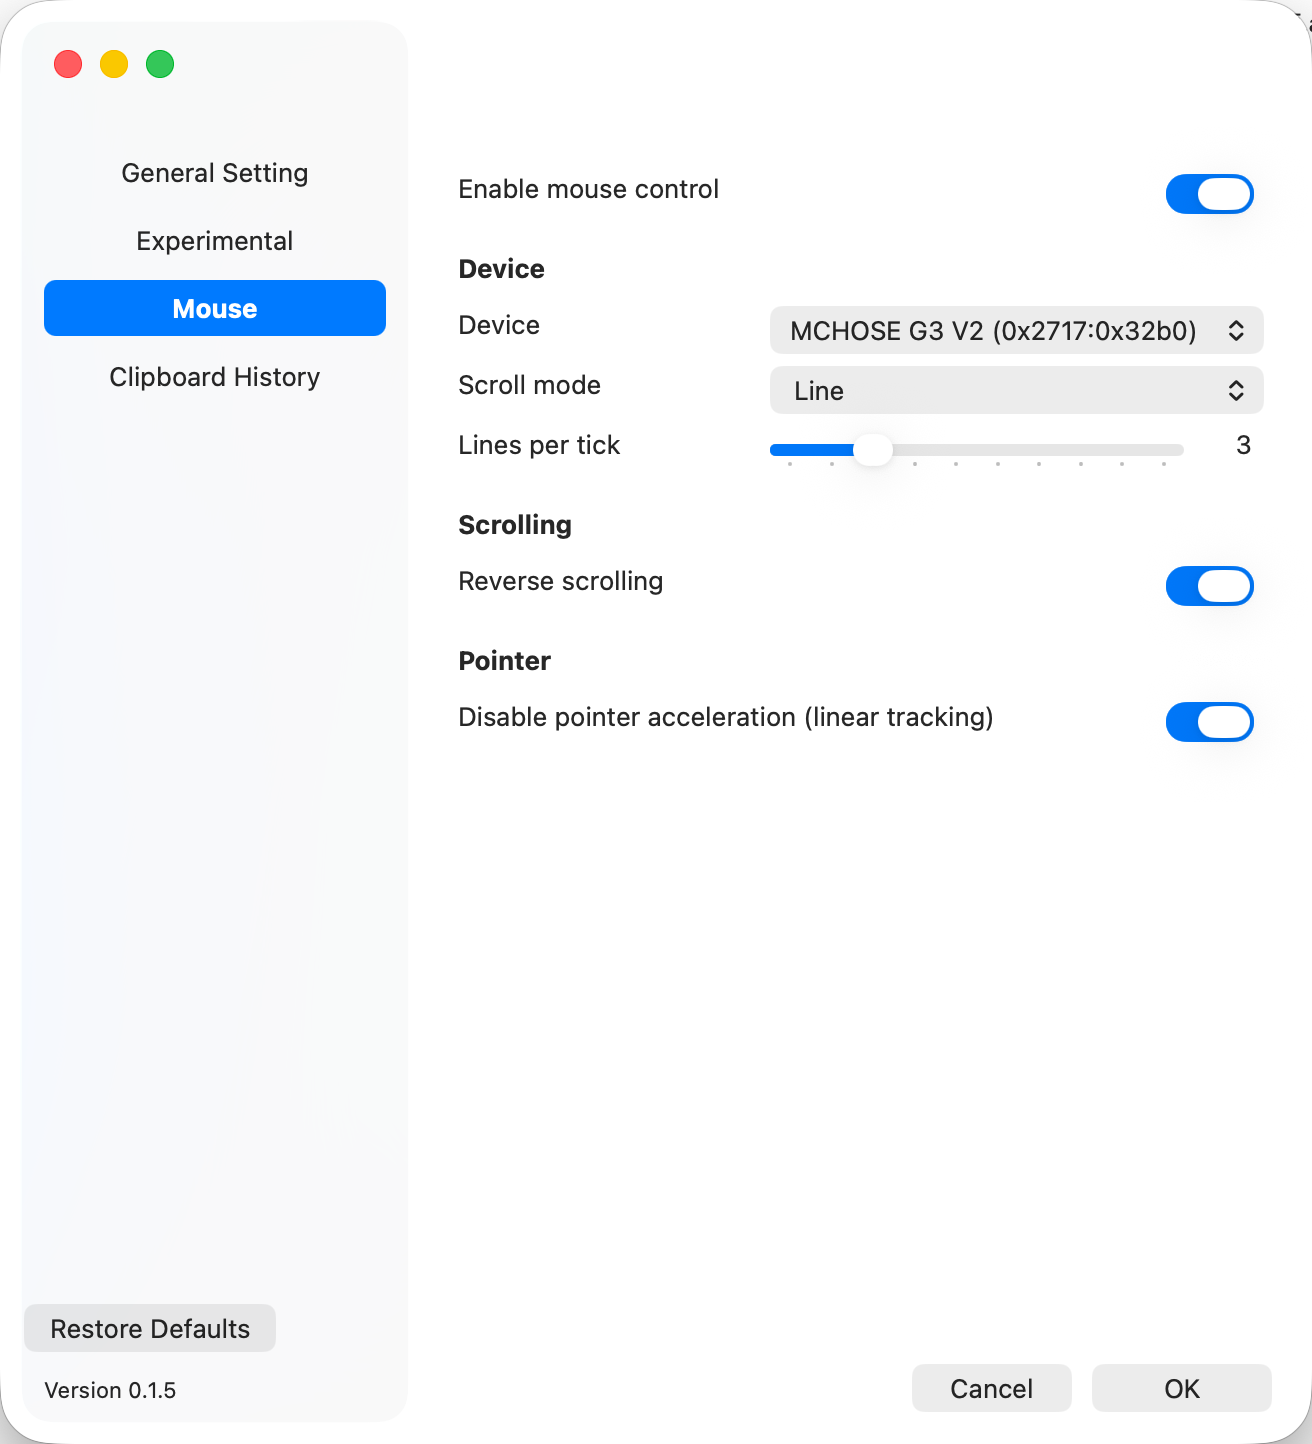
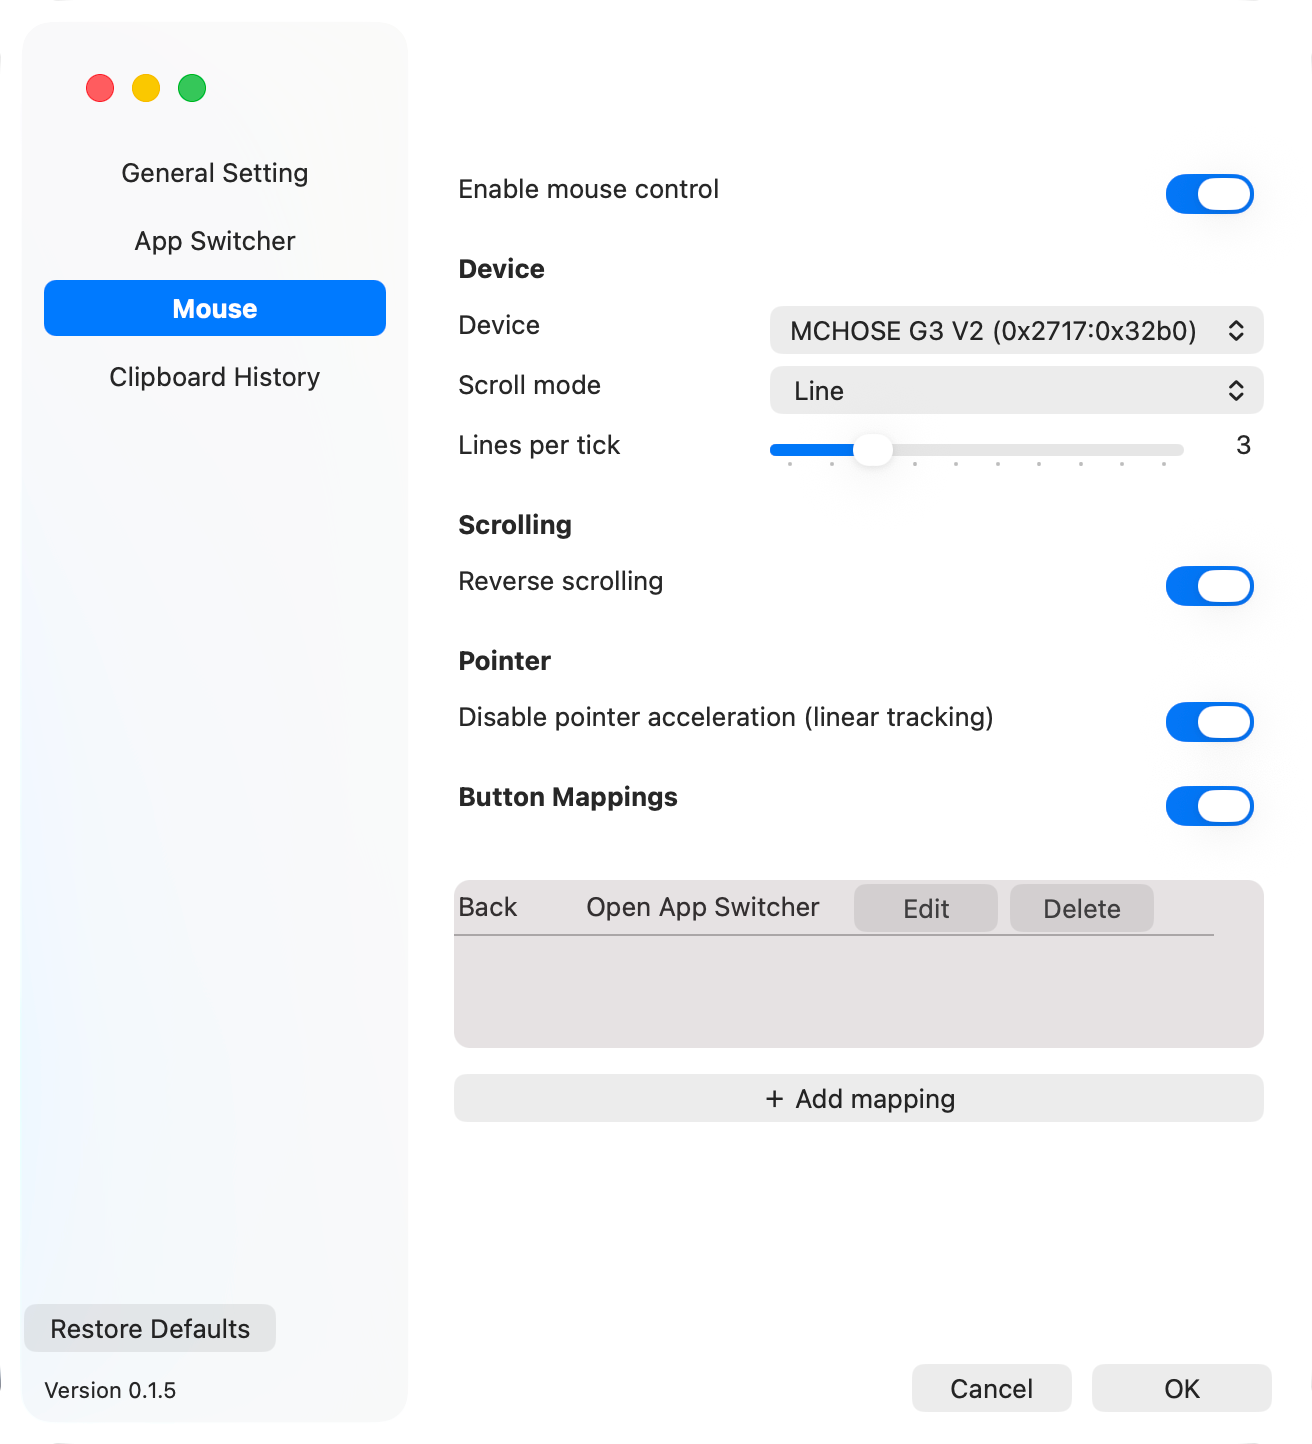
docs: update screenshot

diff --git a/README.md b/README.md
@@ -54,7 +54,7 @@ This taps the [homebrew-tap](https://github.com/eacryo/homebrew-tap) repo and in
 
 ## <img height="16" src="docs/icons/image.svg">&nbsp;&nbsp;Screenshots
 
-<p style="text-align: center;"><img src="docs/pictures/main_window.png" width="640" alt="Main window"></p>
+<p style="text-align: center;"><img src="docs/pictures/main_window_pure_icon.png" width="640" alt="Main window"></p>
 
 <table style="border-collapse: collapse;">
   <tr>
